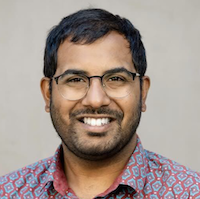
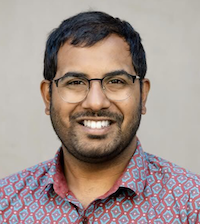
updated ben photo

diff --git a/_pages/people.md b/_pages/people.md
@@ -4,7 +4,7 @@ title: "People"
 classes: wide
 ---
 
-![image-left](/assets/images/bgood_photo_small.jpg){: .align-left}
+![image-left](/assets/images/bgood_photo_2023.png){: .align-left}
 **Benjamin H Good, PhD** <br/>
 Assistant Professor of Applied Physics<br/>
 Stanford University<br/>
@@ -108,7 +108,7 @@ John received his B.A in Physics from Princeton University in 2021. He is curren
 # Friends of the lab
 <br/>
 ![image-left](/assets/images/kxue_photo.jpg){: .align-left}{: .align-left}
-**Katherine Xue** <br/>
+**Katherine Xue, PhD** <br/>
 *JSMF Postdoctoral Fellow, Relman and Petrov labs*<br/>
 <small>Katherine is collaborating with the Good lab to investigate within-host evolution and household transmission in the human gut microbiome.<br/>
 *kxue [at] stanford.edu* <br/></small>
